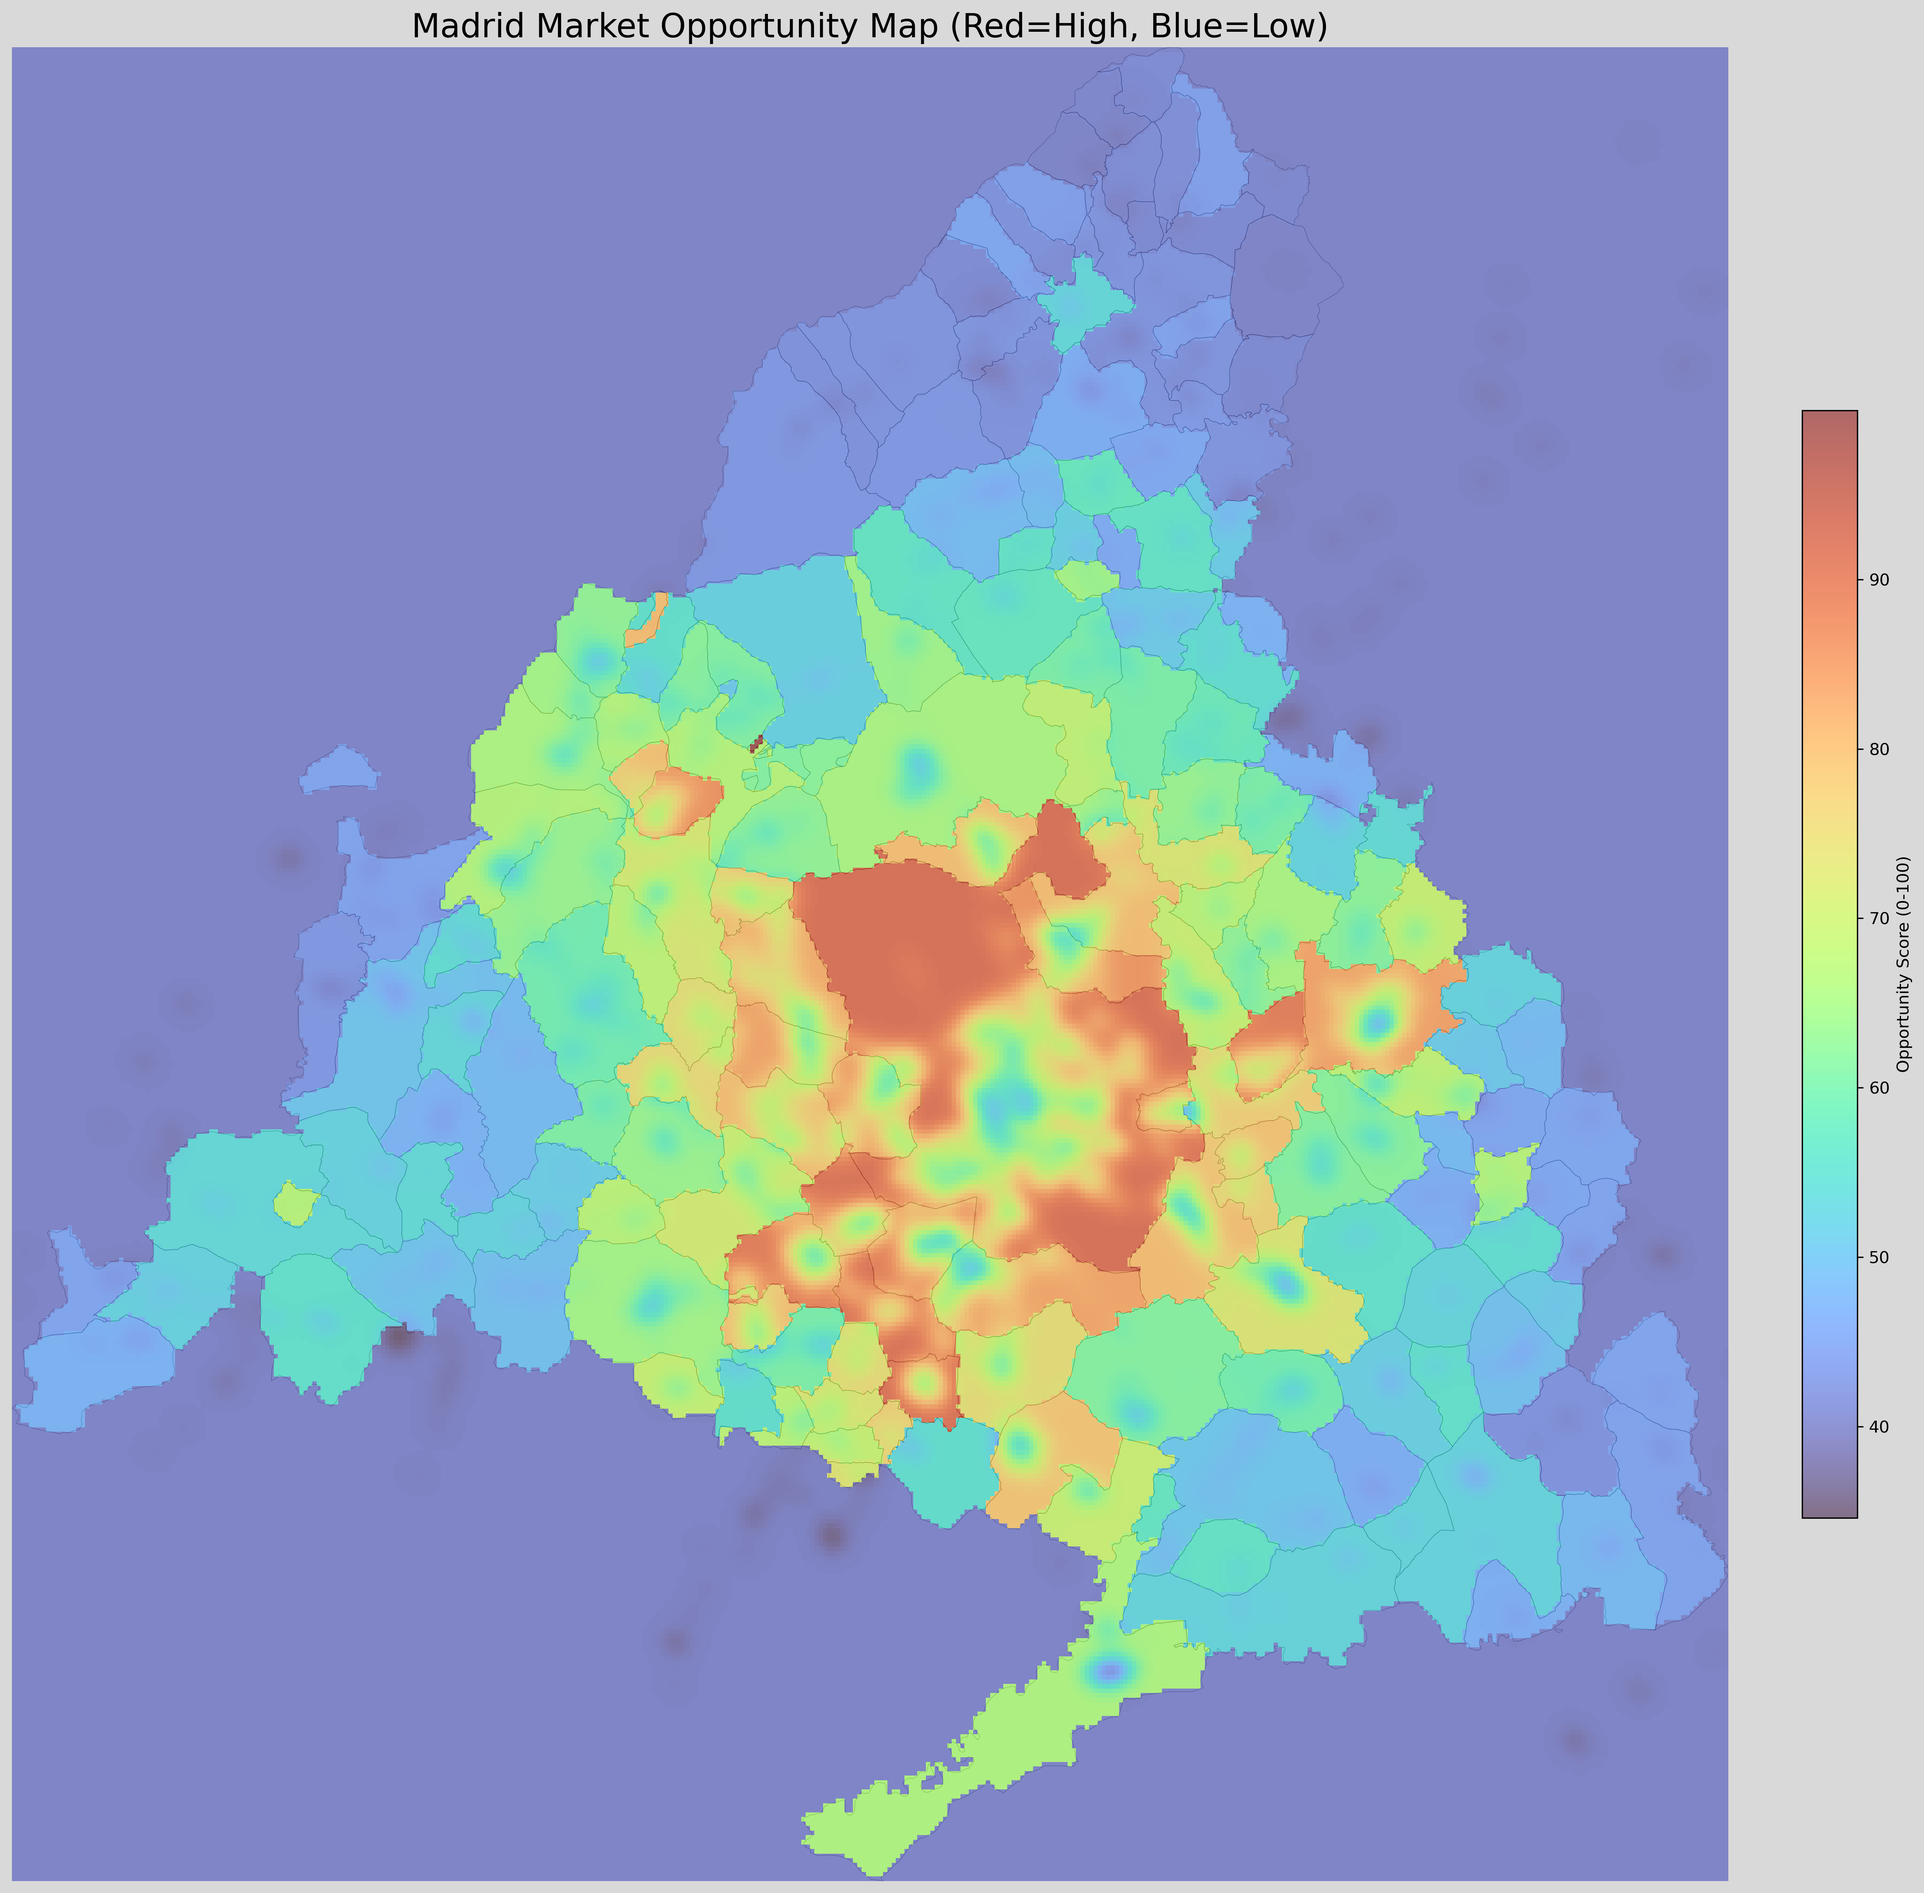
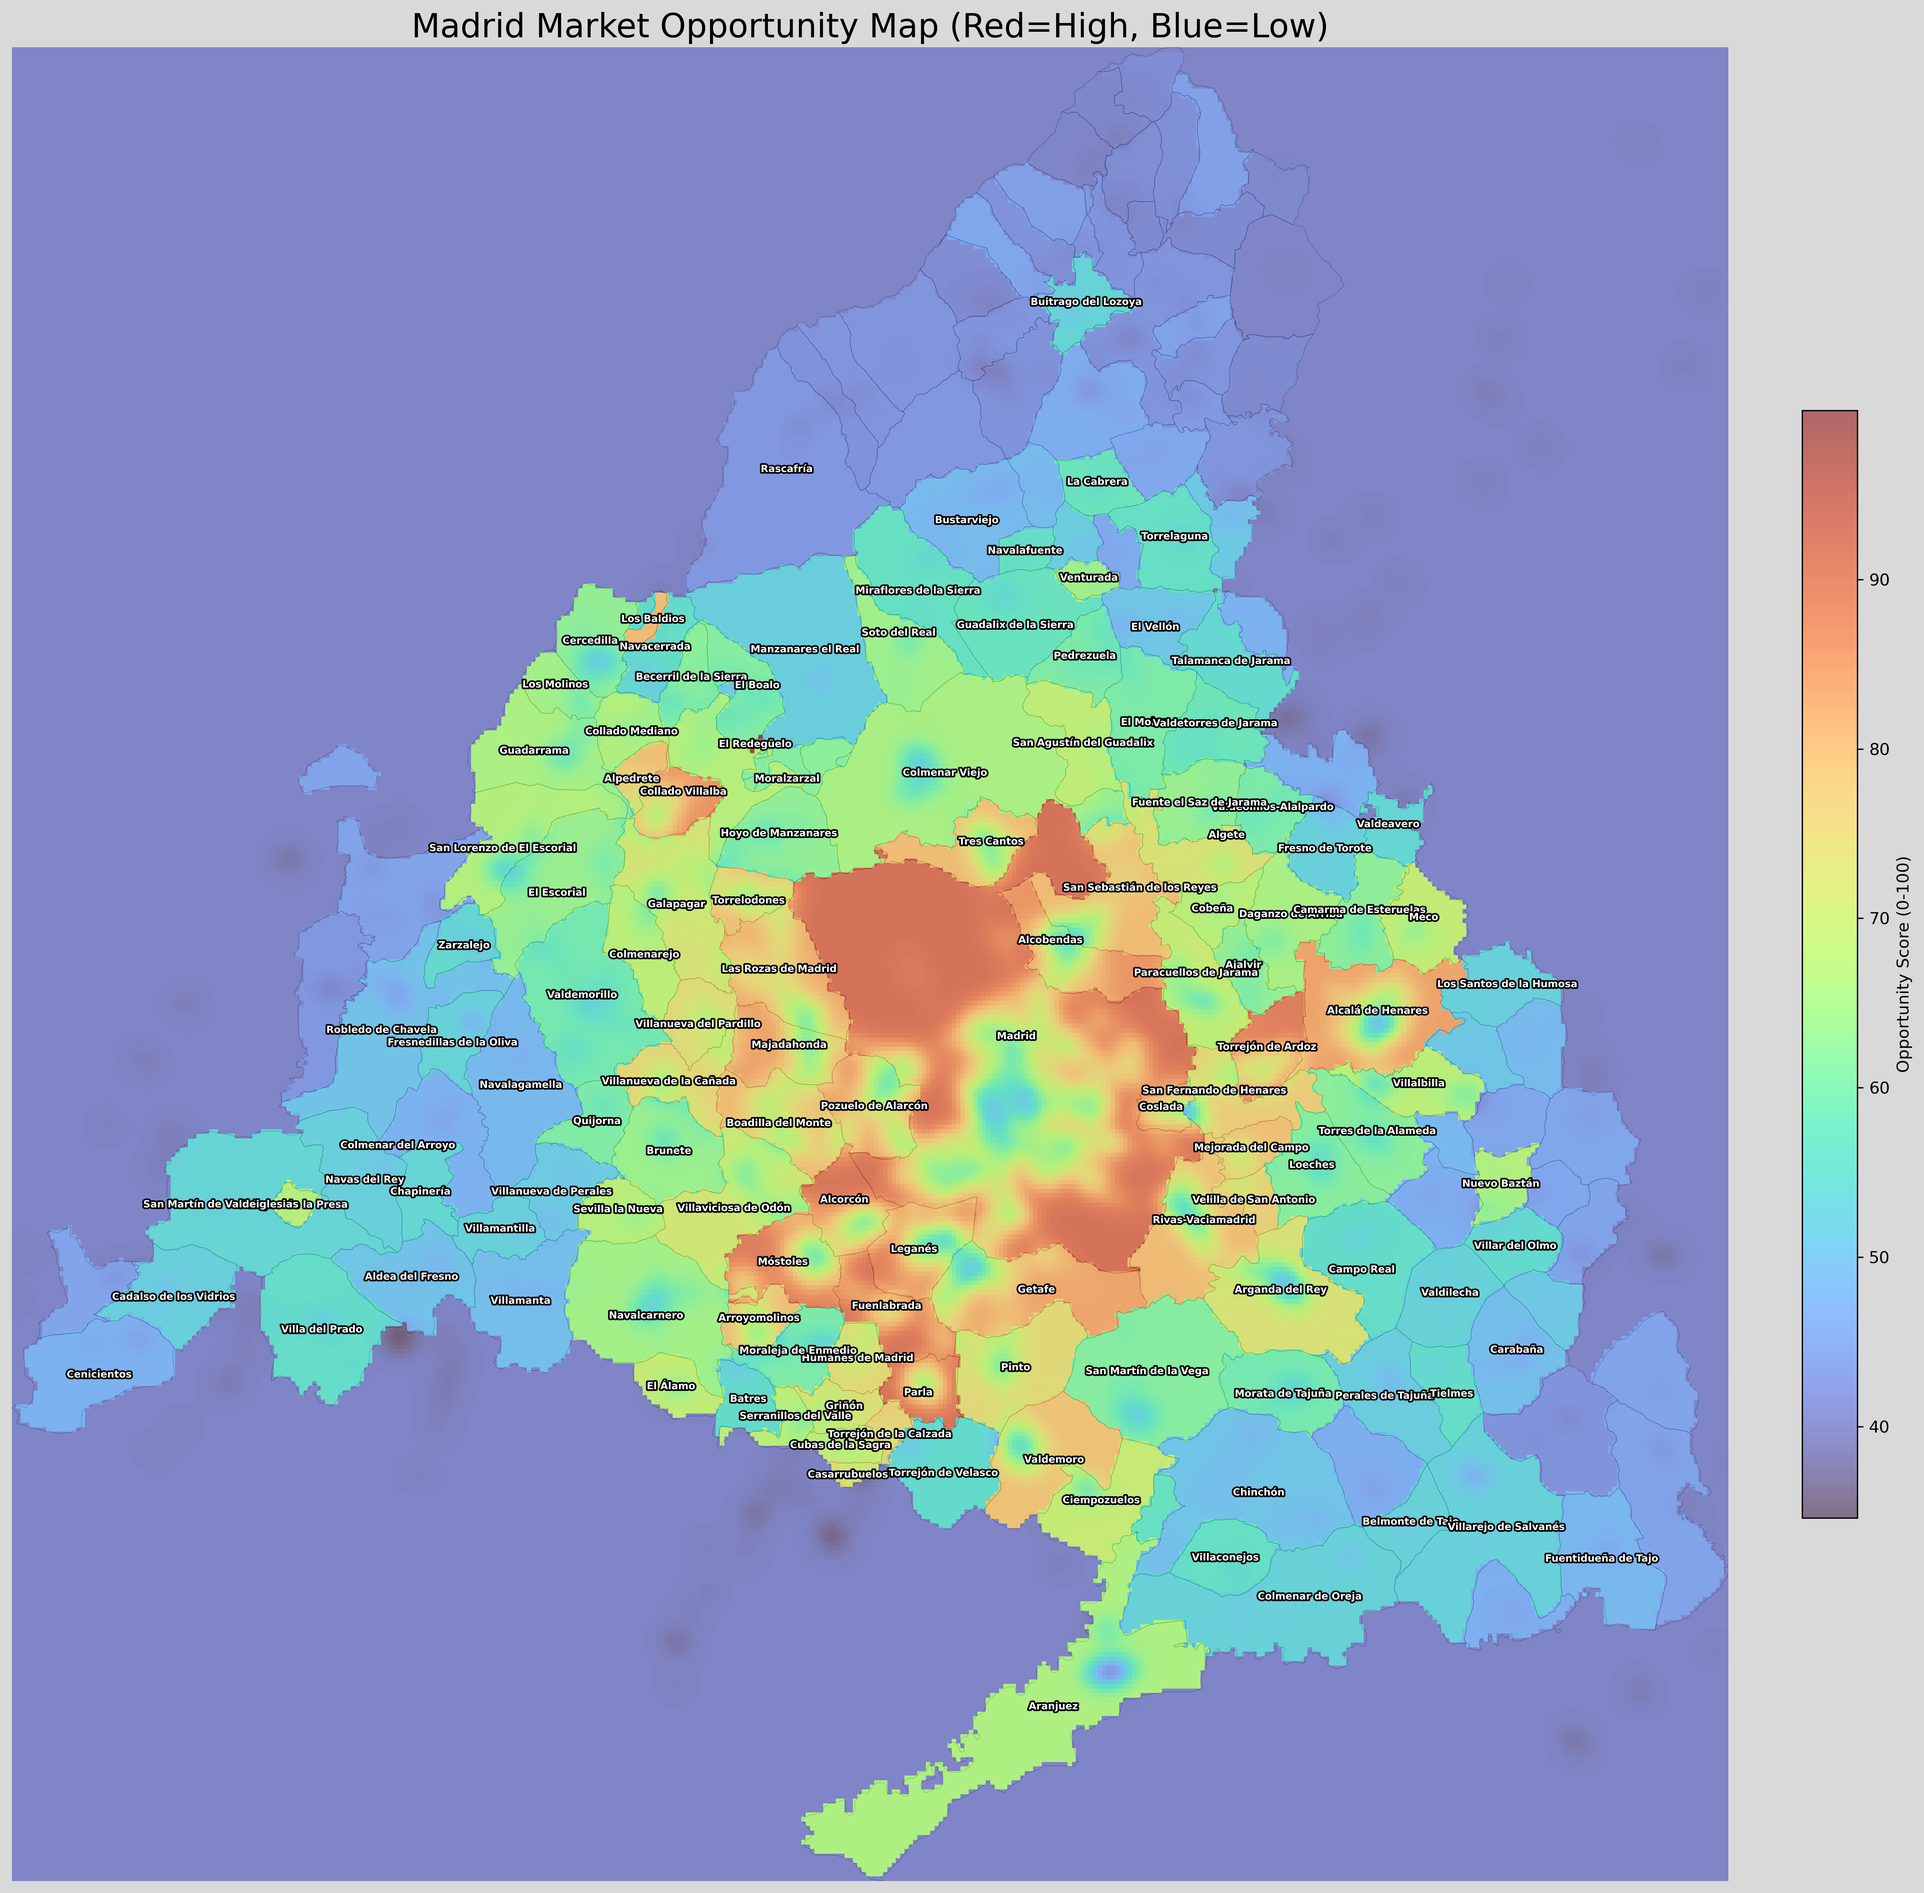
.
.

diff --git a/FINAL_PROJECT.py b/FINAL_PROJECT.py
@@ -750,6 +750,26 @@ if __name__ == "__main__":
         aspect='auto'
     )
 
+    # Add Municipality Names (Style matched to Choropleth)
+    for idx, row in gdf_choropleth.iterrows():
+        pop = row['Total']
+        if pop > POPULATION_THRESHOLD:
+            point = row.geometry.representative_point().coords[0]
+            name = row['DS_NOMBRE'] if pd.notnull(row['DS_NOMBRE']) else ""
+            # Only showing name as per plan, keeping style identical
+            label_text = name 
+            
+            ax3.annotate(
+                text=label_text,
+                xy=point,
+                ha='center',
+                va='center',
+                fontsize=6, 
+                color='white',
+                fontweight='bold',
+                path_effects=[pe.withStroke(linewidth=2, foreground="black")]
+            )
+
     ax3.set_title("Madrid Market Opportunity Map (Red=High, Blue=Low)", fontsize=20)
     ax3.axis('off')
 
